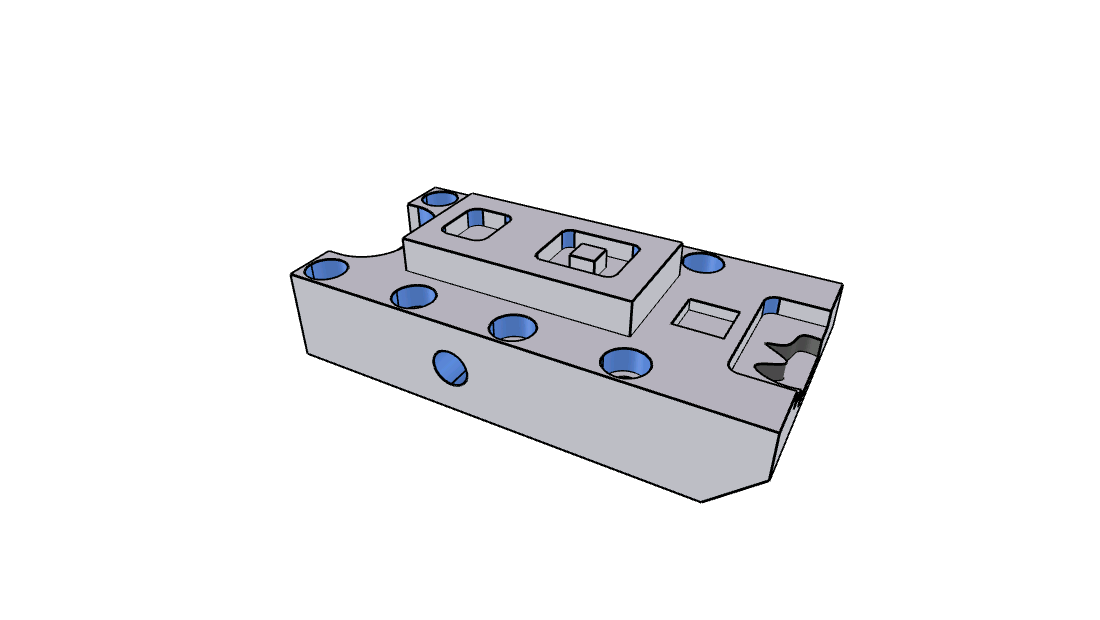
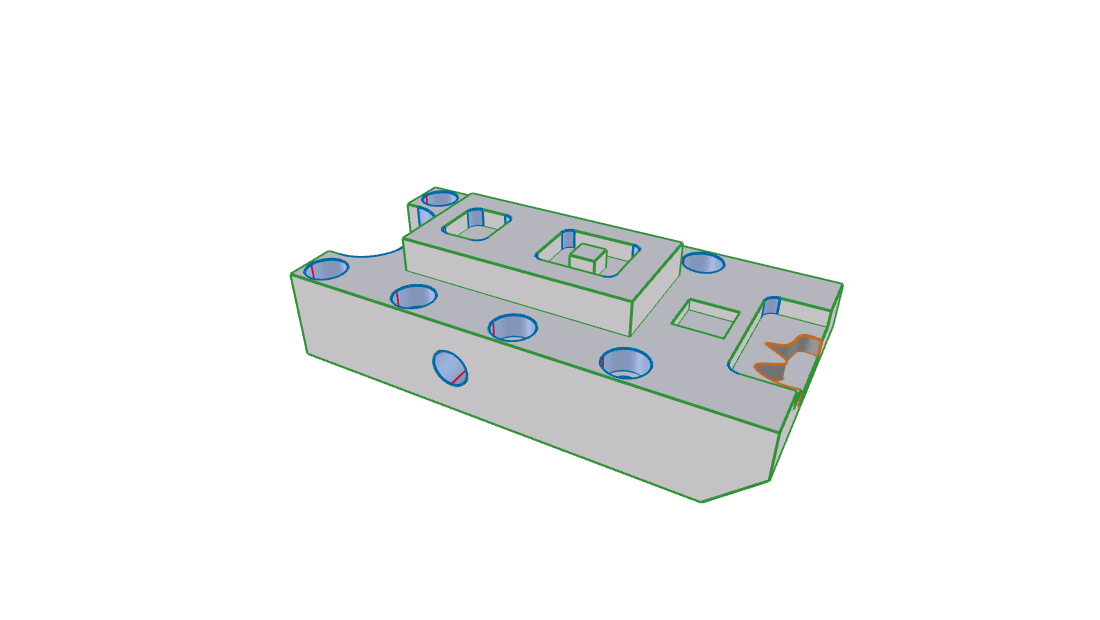
Example: color CAD edges by the pair of surfaces they join
Each edge between CAD faces is named after the two kinds of surface on
either side (Plane-Plane, Cylinder-Plane, ...) and drawn in that pair's
color. The extension README's picture and caption are updated.

diff --git a/examples/show_brep.py b/examples/show_brep.py
@@ -1,5 +1,6 @@
 """
-Color each face by its kind of surface and outline the CAD faces.
+Color each face by its kind of surface, and each edge between CAD faces by
+the pair of surfaces it joins.
 
 Run from the repository root; writes brep.png. Needs a few extras:
     pip install trimesh scipy pillow "pyglet<2"
@@ -11,27 +12,42 @@ from pathlib import Path
 import trimesh
 
 import cascadio
-from cascadio.primitives import Cone, Cylinder, Plane, Sphere, Torus
 
-# light gray, blue, orange, green, purple; dark gray for any other surface
-COLORS = {Plane: [220, 220, 230], Cylinder: [100, 149, 237], Cone: [255, 165, 0]}
-COLORS |= {Sphere: [50, 205, 50], Torus: [218, 112, 214], type(None): [96, 96, 96]}
+# faces: one soft color per kind of surface; None is any other surface
+FACES = {"Plane": [225, 225, 232], "Cylinder": [170, 195, 240], "Cone": [250, 215, 160]}
+FACES |= {
+    "Sphere": [180, 235, 180],
+    "Torus": [235, 190, 232],
+    "NoneType": [150, 150, 150],
+}
+# edges: one bright color per pair of surfaces, handed out in sorted order
+BRIGHT = [[230, 25, 75], [0, 130, 200], [245, 130, 48], [60, 180, 75]]
+BRIGHT += [[145, 30, 180], [0, 0, 0], [240, 50, 230], [128, 128, 0]]
 
 step = Path("tests/models/featuretype.STEP").read_bytes()
 glb = cascadio.load(step, include_brep=True)
 mesh = trimesh.load_mesh(trimesh.util.wrap_as_stream(glb), file_type="glb")
 index = mesh.face_attributes["brep_index"]  # per triangle: its CAD face
-kinds = mesh.metadata["cascadio"]["brep_primitives"]  # per CAD face: its surface
-mesh.visual = trimesh.visual.ColorVisuals(
-    mesh, face_colors=[COLORS[type(kinds[i])] for i in index]
-)
+primitives = mesh.metadata["cascadio"]["brep_primitives"]  # per CAD face: its surface
+kind = [type(primitives[i]).__name__ for i in index]  # per triangle: "Plane", ...
+mesh.visual = trimesh.visual.ColorVisuals(mesh, face_colors=[FACES[k] for k in kind])
+scene = trimesh.Scene(mesh)
 
 welded = mesh.copy()  # CAD faces are meshed separately: weld them to find neighbours
 welded.merge_vertices(merge_tex=True, merge_norm=True)
 # an edge between two triangles from different CAD faces is a CAD edge
 is_edge = index[welded.face_adjacency[:, 0]] != index[welded.face_adjacency[:, 1]]
-edges = trimesh.load_path(welded.vertices[welded.face_adjacency_edges[is_edge]])
+segments = welded.vertices[welded.face_adjacency_edges[is_edge]]
+# name each CAD edge after the two kinds of surface it joins, like "Cylinder-Plane"
+joins = [
+    "-".join(sorted([kind[a], kind[b]])) for a, b in welded.face_adjacency[is_edge]
+]
+for color, join in zip(BRIGHT, sorted(set(joins)), strict=False):
+    path = trimesh.load_path(segments[[j == join for j in joins]])
+    path.colors = [color] * len(path.entities)
+    scene.add_geometry(path)
+    print(join, color)
 
-scene = trimesh.Scene([mesh, edges])
 scene.set_camera(angles=(1.0, 0.0, 0.5), distance=0.2, center=mesh.centroid)
-Path("brep.png").write_bytes(scene.save_image(resolution=(1100, 620)))
+image = scene.save_image(resolution=(1100, 620), line_settings={"line_width": 3})
+Path("brep.png").write_bytes(image)

diff --git a/scripts/gen_schema.py b/scripts/gen_schema.py
@@ -215,9 +215,9 @@ README = """\
 
 {description}
 
-![A machined part with planes in gray and cylinders in blue, and every edge between CAD faces outlined](example.png)
+![A machined part with faces tinted by surface type and edges colored by the pair of surfaces they join](example.png)
 
-The picture is a mesh, not CAD geometry. The colors come from each face's `type` and the outlines from `faceIndices`, in about twenty lines of Python: [examples/show_brep.py](../../examples/show_brep.py).
+The picture is a mesh, not CAD geometry. Faces are tinted by their `type`. The outlines are the edges between triangles with different `faceIndices`, colored by the two kinds of surface they join: green where two planes meet, blue for a plane and a cylinder, red for two cylinders, orange for a plane and a free-form surface. It takes about thirty lines of Python: [examples/show_brep.py](../../examples/show_brep.py).
 
 ## Example
 

diff --git a/extensions/TM_brep_faces/README.md b/extensions/TM_brep_faces/README.md
@@ -5,9 +5,9 @@ Which BREP face each triangle came from, the analytic surface of each face, and 
 
 All positions and lengths are in meters and all directions are unit vectors, in the same coordinate frame as the primitive's POSITION accessor (before any node transform). All angles are in radians and turn counter-clockwise when seen from the tip of the axis they turn about (the right-hand rule).
 
-![A machined part with planes in gray and cylinders in blue, and every edge between CAD faces outlined](example.png)
+![A machined part with faces tinted by surface type and edges colored by the pair of surfaces they join](example.png)
 
-The picture is a mesh, not CAD geometry. The colors come from each face's `type` and the outlines from `faceIndices`, in about twenty lines of Python: [examples/show_brep.py](../../examples/show_brep.py).
+The picture is a mesh, not CAD geometry. Faces are tinted by their `type`. The outlines are the edges between triangles with different `faceIndices`, colored by the two kinds of surface they join: green where two planes meet, blue for a plane and a cylinder, red for two cylinders, orange for a plane and a free-form surface. It takes about thirty lines of Python: [examples/show_brep.py](../../examples/show_brep.py).
 
 ## Example
 
